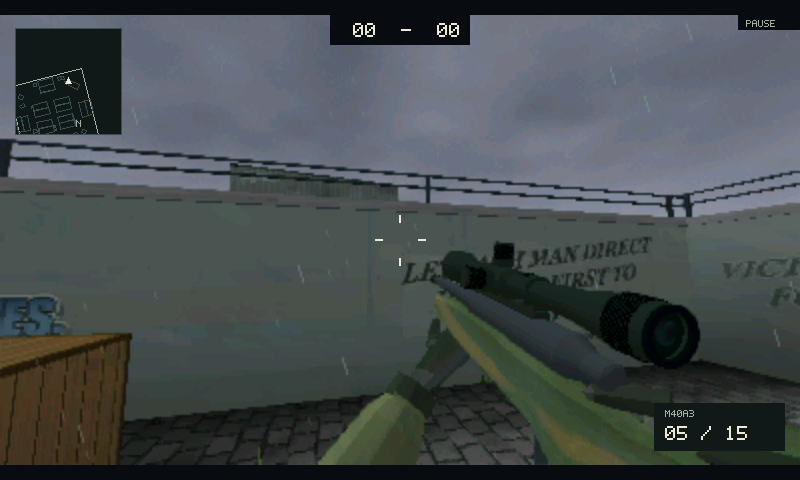
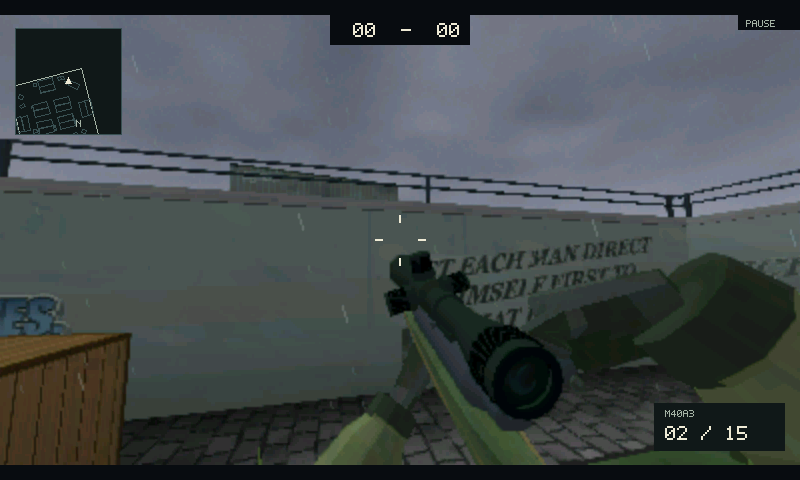
Refresh README screenshots and download sizes

diff --git a/README.md b/README.md
@@ -1,14 +1,14 @@
 # Fall of Duty Lite
 
-**3.92 MB of game data in this checkout.** The published v1.0.0 handheld download is **4.17 MB** with Guition firmware.
+**3.92 MB (3,917,627 bytes)** for the current microSD game pack. [Pack manifest](assets/fall-of-duty.fodp.json)
 
 Fall of Duty Lite is an offline first-person shooter for the Guition JC4880P443C_I_W ESP32-P4 and SDL2 desktops. Fight a first-to-ten duel in Ship Box, a rain-soaked container yard. Pick one of two rivals and a difficulty from 1 to 10. Difficulty defaults to level 5. The game renders at 400×225 or 320×180 and presents at 800×480.
 
-The microSD game pack is **7% smaller than the Doom v1.9 shareware WAD**. [Current pack manifest](assets/fall-of-duty.fodp.json) · [Doom WAD size](https://github.com/viti95/FastDoom/blob/master/README.txt)
+The pack is **6.6% smaller than the Doom v1.9 shareware WAD**. [Doom WAD size](https://github.com/viti95/FastDoom/blob/master/README.txt)
 
 [Download v1.0.0 handheld package](https://github.com/AJ7-III/Fall-of-Duty-Lite/releases/tag/v1.0.0) · [Handheld setup](INSTALL.md) · [Play on desktop](#play-on-desktop) · [Board build and qualification](BOARD.md) · [Evidence and benchmarks](EVIDENCE.md)
 
-![Ship Box duel rendered at 400×225 and scaled to 800×480 with the MP44, rival soldier, UAV radar, and Hanz voice indicator](docs/images/gameplay.png)
+![A Ship Box duel with the MP44, Hanz across the yard, and an active UAV on the minimap](docs/images/gameplay.png)
 
 ## Inside Ship Box
 
@@ -22,13 +22,13 @@ The microSD game pack is **7% smaller than the Doom v1.9 shareware WAD**. [Curre
 
 ## Handheld download and hardware
 
-Grab the prebuilt v1.0.0 handheld package from the [GitHub release page](https://github.com/AJ7-III/Fall-of-Duty-Lite/releases/tag/v1.0.0) or download the archive directly.
+The published v1.0.0 Guition archive is **4.17 MB (4,173,709 bytes)**. [GitHub release](https://github.com/AJ7-III/Fall-of-Duty-Lite/releases/tag/v1.0.0)
 
 - [Fall-of-Duty-Lite-Guition-ESP32-P4.zip](https://github.com/AJ7-III/Fall-of-Duty-Lite/releases/download/v1.0.0/Fall-of-Duty-Lite-Guition-ESP32-P4.zip)
 - [Fall-of-Duty-Lite-Guition-ESP32-P4.zip.sha256](https://github.com/AJ7-III/Fall-of-Duty-Lite/releases/download/v1.0.0/Fall-of-Duty-Lite-Guition-ESP32-P4.zip.sha256)
 - [Latest releases](https://github.com/AJ7-III/Fall-of-Duty-Lite/releases/latest)
 
-For the renderer and visual updates shown here, [build the handheld package from this checkout](#build-and-package-handheld-firmware). The verified local archive is **4.46 MB**.
+The Guition firmware and SD archive built from this checkout is **4.46 MB (4,460,477 bytes)**. [Build and packaging instructions](#build-and-package-handheld-firmware)
 
 The archive bundles the bootloader, partition table, application binary, schema 7 SD pack, reference replay traces, `INSTALL.md`, licenses, and `SHA256SUMS`. Keep the firmware and SD pack from the same archive together because schema 7 packs require firmware with schema 7 support.
 
@@ -80,13 +80,17 @@ SDL gamepads use the same layout as the handheld DualShock 4. On the Guition, to
 
 ## Screenshots
 
-| Start menu and duel setup | MP44 iron sights down long lane |
+| MP44 iron sights | M40A3 bolt cycle |
 | --- | --- |
-| ![Fall of Duty Lite start menu over Ship Box](docs/images/title.png) | ![Aiming down MP44 iron sights through the center container lane](docs/images/iron-sights.png) |
+| ![Aiming down MP44 iron sights through the center container lane](docs/images/iron-sights.png) | ![The right glove works the M40A3 bolt as the left hand supports the stock](docs/images/sniper.png) |
 
-| M40A3 bolt-action rifle | Airstrike targeting laptop |
+| USP .45 grip | IPwndUrMom and Hanz |
 | --- | --- |
-| ![M40A3 bolt-action rifle in Ship Box](docs/images/sniper.png) | ![Airstrike laptop tactical targeting map](docs/images/airstrike.png) |
+| ![Both gloves wrap around the USP .45 grip in first person](docs/images/usp45.png) | ![Close-ups of IPwndUrMom in sand and Hanz in rust and charcoal](docs/images/rivals.png) |
+
+| Start menu | Airstrike targeting laptop |
+| --- | --- |
+| ![Fall of Duty Lite start menu over Ship Box](docs/images/title.png) | ![Airstrike laptop tactical targeting map](docs/images/airstrike.png) |
 
 ## Verification status
 
